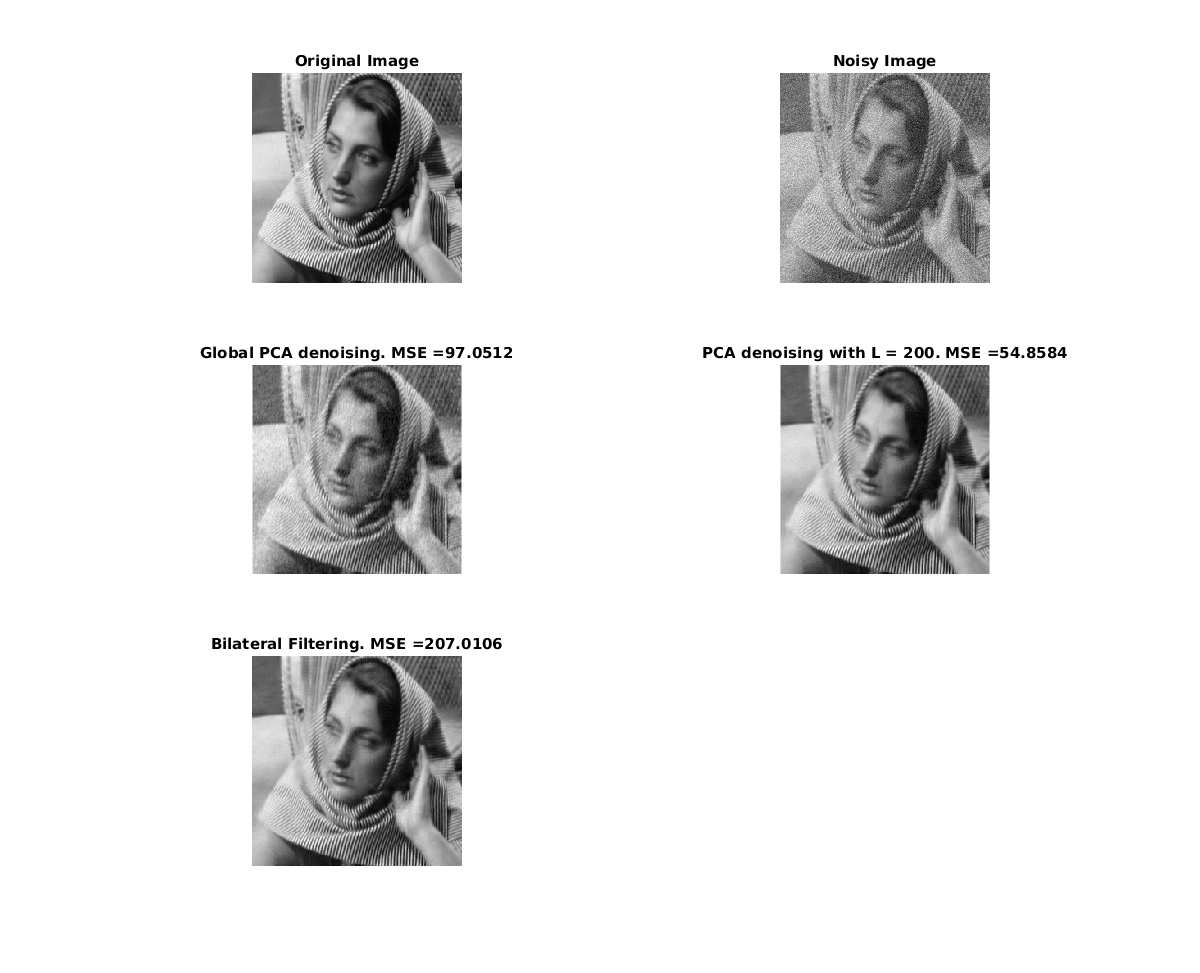
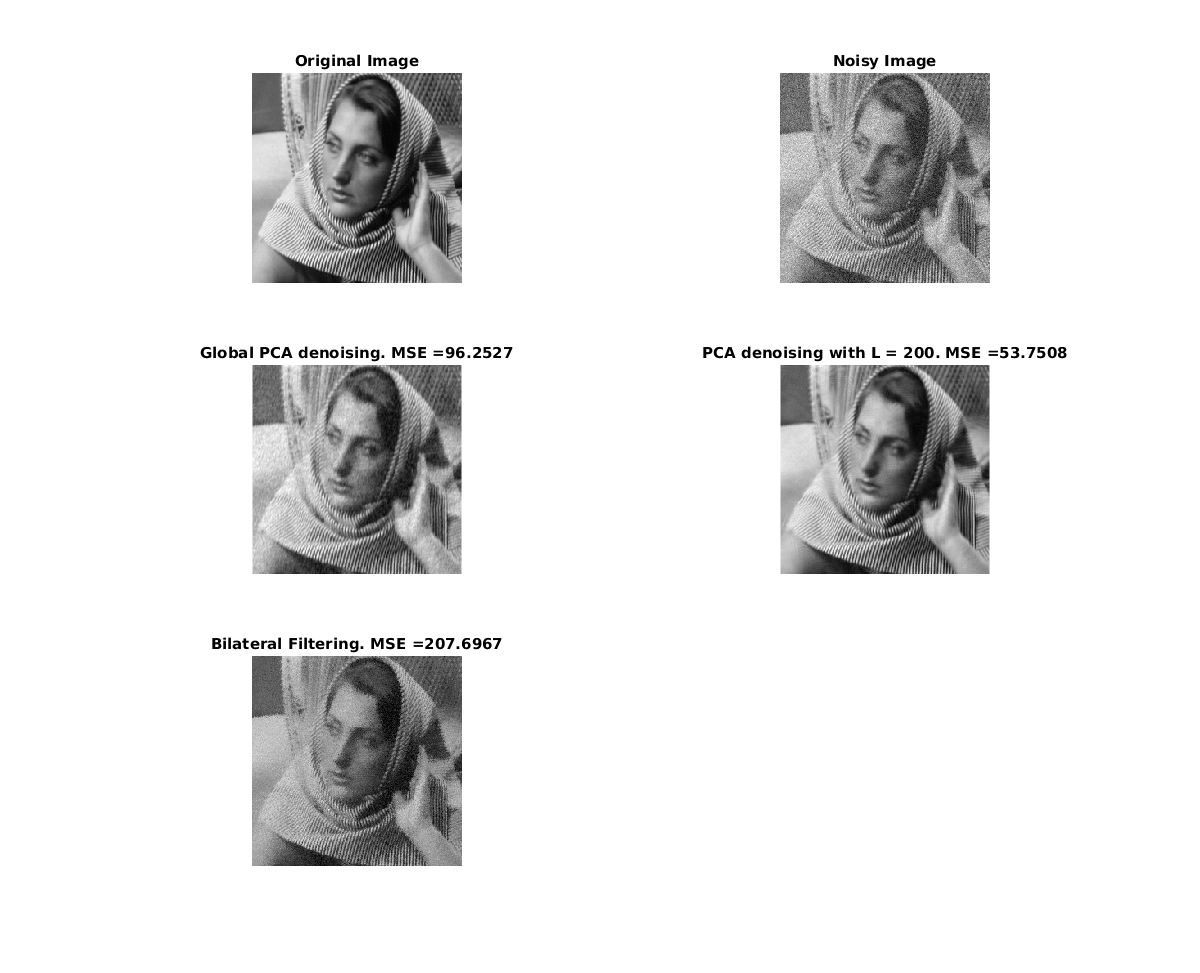
6

diff --git a/assignment5_DFT/6/report/myMainScript.html b/assignment5_DFT/6/report/myMainScript.html
@@ -6,7 +6,7 @@
    <!--
 This HTML was auto-generated from MATLAB code.
 To make changes, update the MATLAB code and republish this document.
-      --><title>Q6. PCA based denoising and Bilateral filtering</title><meta name="generator" content="MATLAB 8.6"><link rel="schema.DC" href="http://purl.org/dc/elements/1.1/"><meta name="DC.date" content="2017-10-25"><meta name="DC.source" content="myMainScript.m"><style type="text/css">
+      --><title>Q6. PCA based denoising and Bilateral filtering</title><meta name="generator" content="MATLAB 8.6"><link rel="schema.DC" href="http://purl.org/dc/elements/1.1/"><meta name="DC.date" content="2017-10-26"><meta name="DC.source" content="myMainScript.m"><style type="text/css">
 html,body,div,span,applet,object,iframe,h1,h2,h3,h4,h5,h6,p,blockquote,pre,a,abbr,acronym,address,big,cite,code,del,dfn,em,font,img,ins,kbd,q,s,samp,small,strike,strong,sub,sup,tt,var,b,u,i,center,dl,dt,dd,ol,ul,li,fieldset,form,label,legend,table,caption,tbody,tfoot,thead,tr,th,td{margin:0;padding:0;border:0;outline:0;font-size:100%;vertical-align:baseline;background:transparent}body{line-height:1}ol,ul{list-style:none}blockquote,q{quotes:none}blockquote:before,blockquote:after,q:before,q:after{content:'';content:none}:focus{outine:0}ins{text-decoration:none}del{text-decoration:line-through}table{border-collapse:collapse;border-spacing:0}
 
 html { min-height:100%; margin-bottom:1px; }
@@ -66,7 +66,7 @@ table td { padding:7px 5px; text-align:left; vertical-align:top; border:1px soli
 
 
 
-  </style></head><body><div class="content"><h1>Q6. PCA based denoising and Bilateral filtering</h1><!--introduction--><p>Bhavesh Thakkar, Dhanvi Sreenivasan and Dhruv Ilesh Shah</p><!--/introduction--><h2>Contents</h2><div><ul><li><a href="#1">myPCADenoising1.m</a></li><li><a href="#2">myPCADenoising2.m</a></li><li><a href="#3">MainScript</a></li><li><a href="#4">Plot</a></li><li><a href="#5">Differences between Bilateral and PCA</a></li></ul></div><h2>myPCADenoising1.m<a name="1"></a></h2><pre class="language-matlab">
+  </style></head><body><div class="content"><h1>Q6. PCA based denoising and Bilateral filtering</h1><!--introduction--><p>Bhavesh Thakkar, Dhanvi Sreenivasan and Dhruv Ilesh Shah</p><!--/introduction--><h2>Contents</h2><div><ul><li><a href="#1">myPCADenoising1.m</a></li><li><a href="#2">myPCADenoising2.m</a></li><li><a href="#3">MainScript</a></li><li><a href="#4">Plot</a></li><li><a href="#5">Differences between Bilateral and PCA based denoising</a></li></ul></div><h2>myPCADenoising1.m<a name="1"></a></h2><pre class="language-matlab">
 <span class="keyword">function</span> [filtered_image] = myPCADenoising1(image)
 
 patch_size=7;
@@ -212,9 +212,9 @@ tic;
 img3 = myBilateralFiltering(noisy_image,[8 8 10]);
 MSE3 = sum(sum( (image-img3).^2))/(size(image,1)*size(image,2));
 toc;
-</pre><pre class="codeoutput">Elapsed time is 0.583250 seconds.
-Elapsed time is 121.313608 seconds.
-Elapsed time is 2.698712 seconds.
+</pre><pre class="codeoutput">Elapsed time is 0.608504 seconds.
+Elapsed time is 113.178203 seconds.
+Elapsed time is 2.434134 seconds.
 </pre><h2>Plot<a name="4"></a></h2><pre class="codeinput">figure(<span class="string">'Position'</span>,[100, 100, 1200, 1200]);
 
 subplot (3,2,1);
@@ -234,9 +234,9 @@ imshow(img2,[]);
 title(strcat(<span class="string">'PCA denoising with L = 200. MSE = '</span>, num2str(MSE2)))
 
 subplot (3,2,5);
-imshow(img2,[]);
+imshow(img3,[]);
 title(strcat(<span class="string">'Bilateral Filtering. MSE = '</span>, num2str(MSE3)))
-</pre><img vspace="5" hspace="5" src="myMainScript_01.png" alt=""> <h2>Differences between Bilateral and PCA<a name="5"></a></h2><p>6)c) PCA based denoising methods do better than bilateral filtering(in terms of MSE). The mean square errors have been shown in the figure. PCA filter takes into account the signal/noise estimate while updating the eigencoefficeints (i.e does not change much the coefficients having high singal-noise ratio and reduces the coefficients having low signal to noise ratio) while bilateral filter does not do anything of this sort( i.e does not give any consideration to the noise characteristic).</p><p class="footer"><br><a href="http://www.mathworks.com/products/matlab/">Published with MATLAB&reg; R2015b</a><br></p></div><!--
+</pre><img vspace="5" hspace="5" src="myMainScript_01.png" alt=""> <h2>Differences between Bilateral and PCA based denoising<a name="5"></a></h2><p>6)c) PCA based denoising methods do better than bilateral filtering which can be seen visually and in terms of MSE in the above plots. The mean square errors have been shown in the figure. PCA filter takes into account the signal/noise estimate while updating the eigencoefficeints (i.e does not change much the coefficients having high singal-noise ratio and reduces the coefficients having low signal to noise ratio) while bilateral filter does not do anything of this sort( i.e does not give any consideration to the noise characteristic). Bilateral filter applies gaussian kernels over the spatial and intensity domain to update the pixel values while the PCA based denoising does a Wiener filter like update.</p><p class="footer"><br><a href="http://www.mathworks.com/products/matlab/">Published with MATLAB&reg; R2015b</a><br></p></div><!--
 ##### SOURCE BEGIN #####
 %% Q6. PCA based denoising and Bilateral filtering
 % Bhavesh Thakkar, Dhanvi Sreenivasan and Dhruv Ilesh Shah
@@ -290,18 +290,22 @@ imshow(img2,[]);
 title(strcat('PCA denoising with L = 200. MSE = ', num2str(MSE2)))
 
 subplot (3,2,5);
-imshow(img2,[]);
+imshow(img3,[]);
 title(strcat('Bilateral Filtering. MSE = ', num2str(MSE3)))
 
-%% Differences between Bilateral and PCA
+%% Differences between Bilateral and PCA based denoising
 % 6)c)
-% PCA based denoising methods do better than bilateral filtering(in terms of MSE). The mean square errors have been shown in the
+% PCA based denoising methods do better than bilateral filtering
+% which can be seen visually and in terms of MSE in the above plots.
+% The mean square errors have been shown in the
 % figure. PCA filter takes into account the signal/noise estimate while
 % updating the eigencoefficeints (i.e does not change much the coefficients
 % having high singal-noise ratio and reduces the coefficients having low
 % signal to noise ratio) while bilateral filter does not do anything of
 % this sort( i.e does not give any consideration to the noise
-% characteristic). 
+% characteristic). Bilateral filter applies gaussian kernels over the
+% spatial and intensity domain to update the pixel values while the PCA
+% based denoising does a Wiener filter like update.
 
 
 ##### SOURCE END #####

diff --git a/assignment5_DFT/6/code/myMainScript.m b/assignment5_DFT/6/code/myMainScript.m
@@ -50,16 +50,20 @@ imshow(img2,[]);
 title(strcat('PCA denoising with L = 200. MSE = ', num2str(MSE2)))
 
 subplot (3,2,5);
-imshow(img2,[]);
+imshow(img3,[]);
 title(strcat('Bilateral Filtering. MSE = ', num2str(MSE3)))
 
-%% Differences between Bilateral and PCA
+%% Differences between Bilateral and PCA based denoising
 % 6)c)
-% PCA based denoising methods do better than bilateral filtering(in terms of MSE). The mean square errors have been shown in the
+% PCA based denoising methods do better than bilateral filtering 
+% which can be seen visually and in terms of MSE in the above plots.
+% The mean square errors have been shown in the
 % figure. PCA filter takes into account the signal/noise estimate while
 % updating the eigencoefficeints (i.e does not change much the coefficients
 % having high singal-noise ratio and reduces the coefficients having low
 % signal to noise ratio) while bilateral filter does not do anything of
 % this sort( i.e does not give any consideration to the noise
-% characteristic). 
+% characteristic). Bilateral filter applies gaussian kernels over the
+% spatial and intensity domain to update the pixel values while the PCA
+% based denoising does a Wiener filter like update.
 
